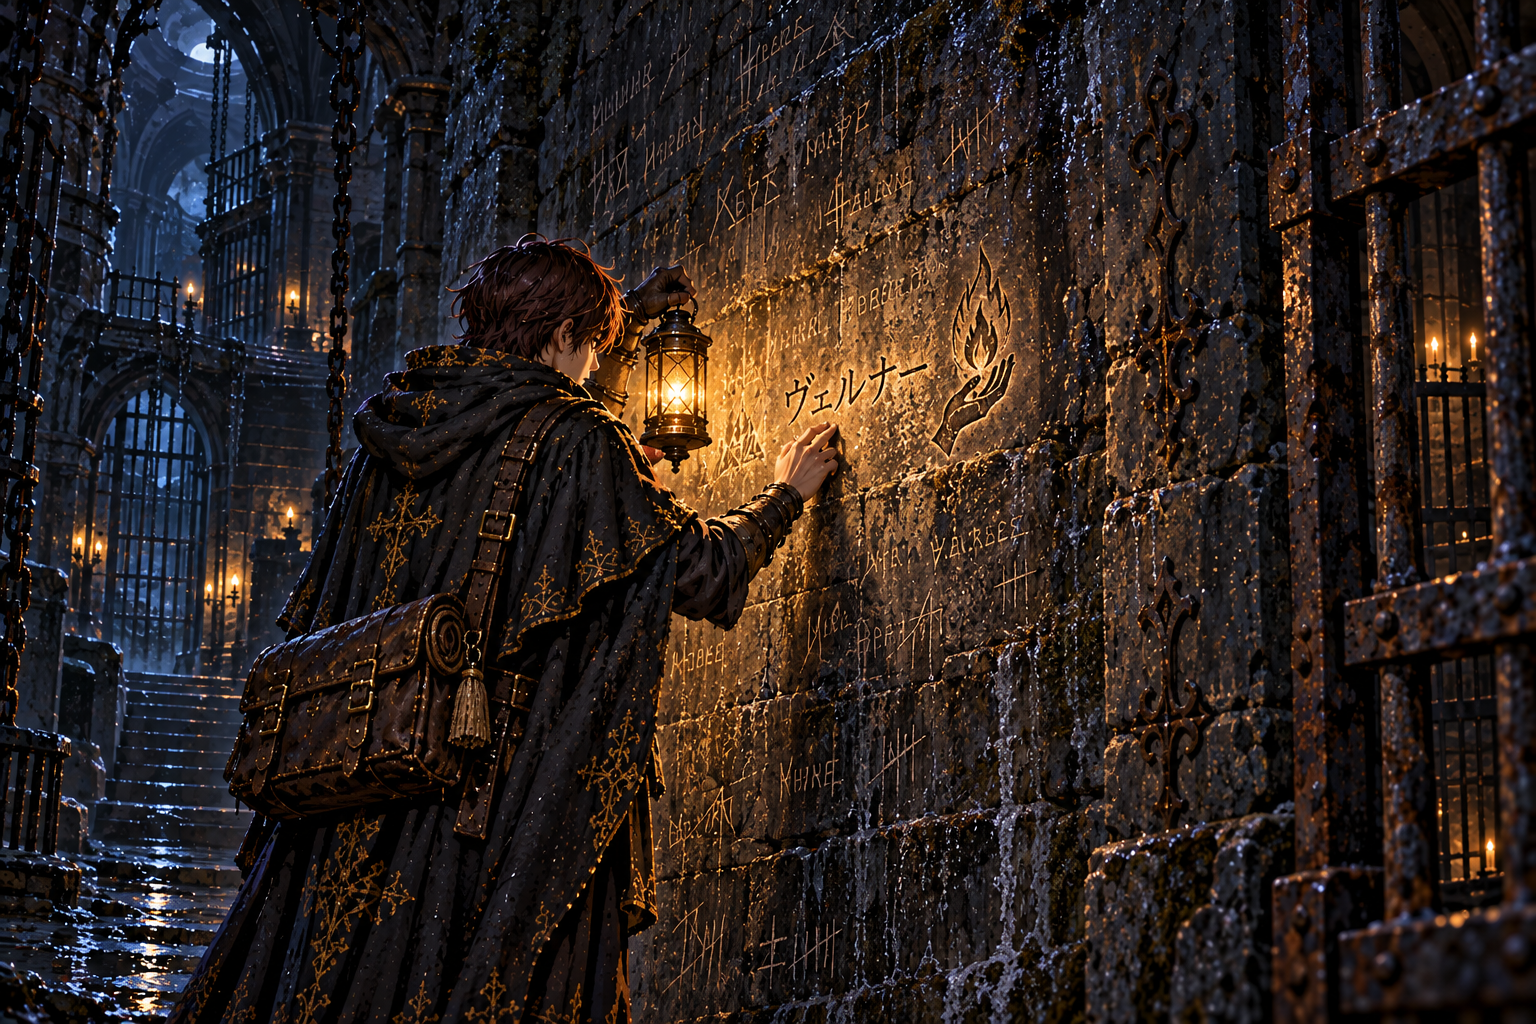
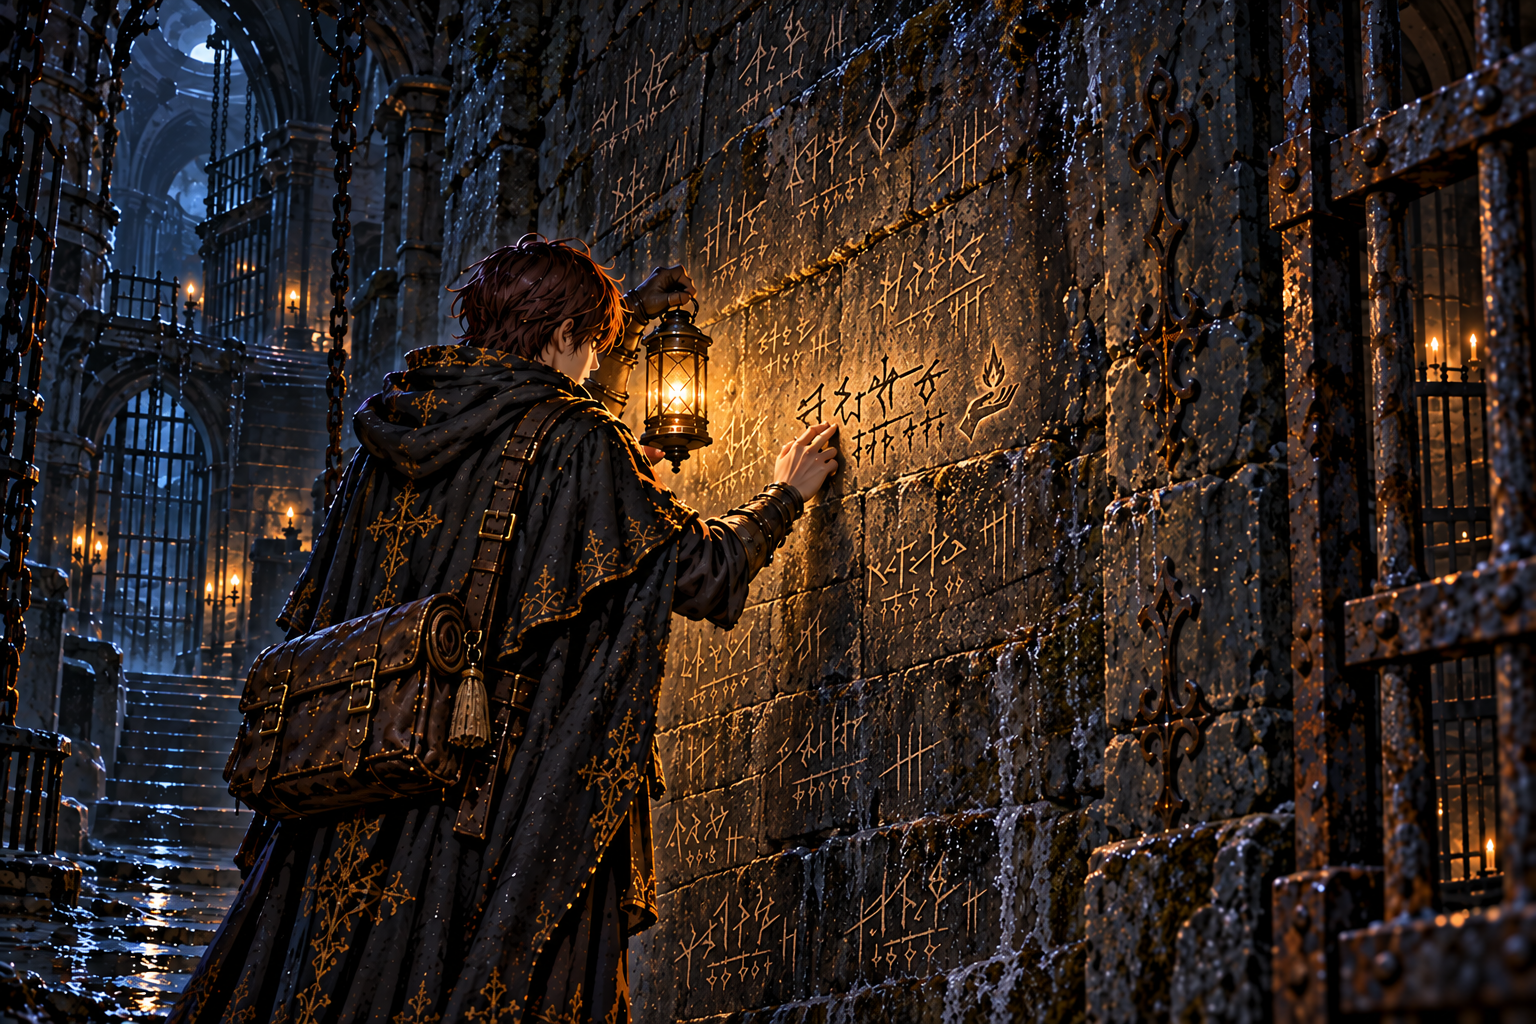
牢壁の刻銘を世界独自の文字へ修正

diff --git a/art/story-review/chapter2/README.md b/art/story-review/chapter2/README.md
@@ -12,7 +12,7 @@
 |---|---|
 | w06_roll | 当直簿と鍵束、持ち場に残る亡兵。 |
 | report_w06 | 王の沈黙、当直簿と鍵束、空いた席。 |
-| w07_names | 牢壁の名と師の印を照らす灯。 |
+| w07_names | 世界独自の文字で爪刻みされた歴代の操霊師の名と、傍らに小さく添えられた師の印を照らす灯。 |
 | w07_sera | 黒い木の髪と木のまぶたを持つセラの頭を布で包む。 |
 | irene_sera | セラの頭と回収済みの腕、イレーヌの手、師のろうそく。 |
 | report_w07 | 名の一覧を読む弟子、話を止める宰相を見つめる王。 |
@@ -26,6 +26,7 @@
 
 ## 修正済みの箇所
 
+- `w07_names`: カタカナと現実の文字に見える刻銘を世界独自の文字へ変更。古い名の風化と新しい名の深い爪刻みを描き分け、師の印を小さな刻みに修正。
 - `mem_w09`: 記憶に混ざった王・宰相を除き、砦の主と亡兵の場面へ修正。
 - `irene_sera`: 球形の灯を既存原画に合わせたろうそくと燭台へ修正。
 - `w08_banner`: 砦に同行しないイレーヌを除去。
